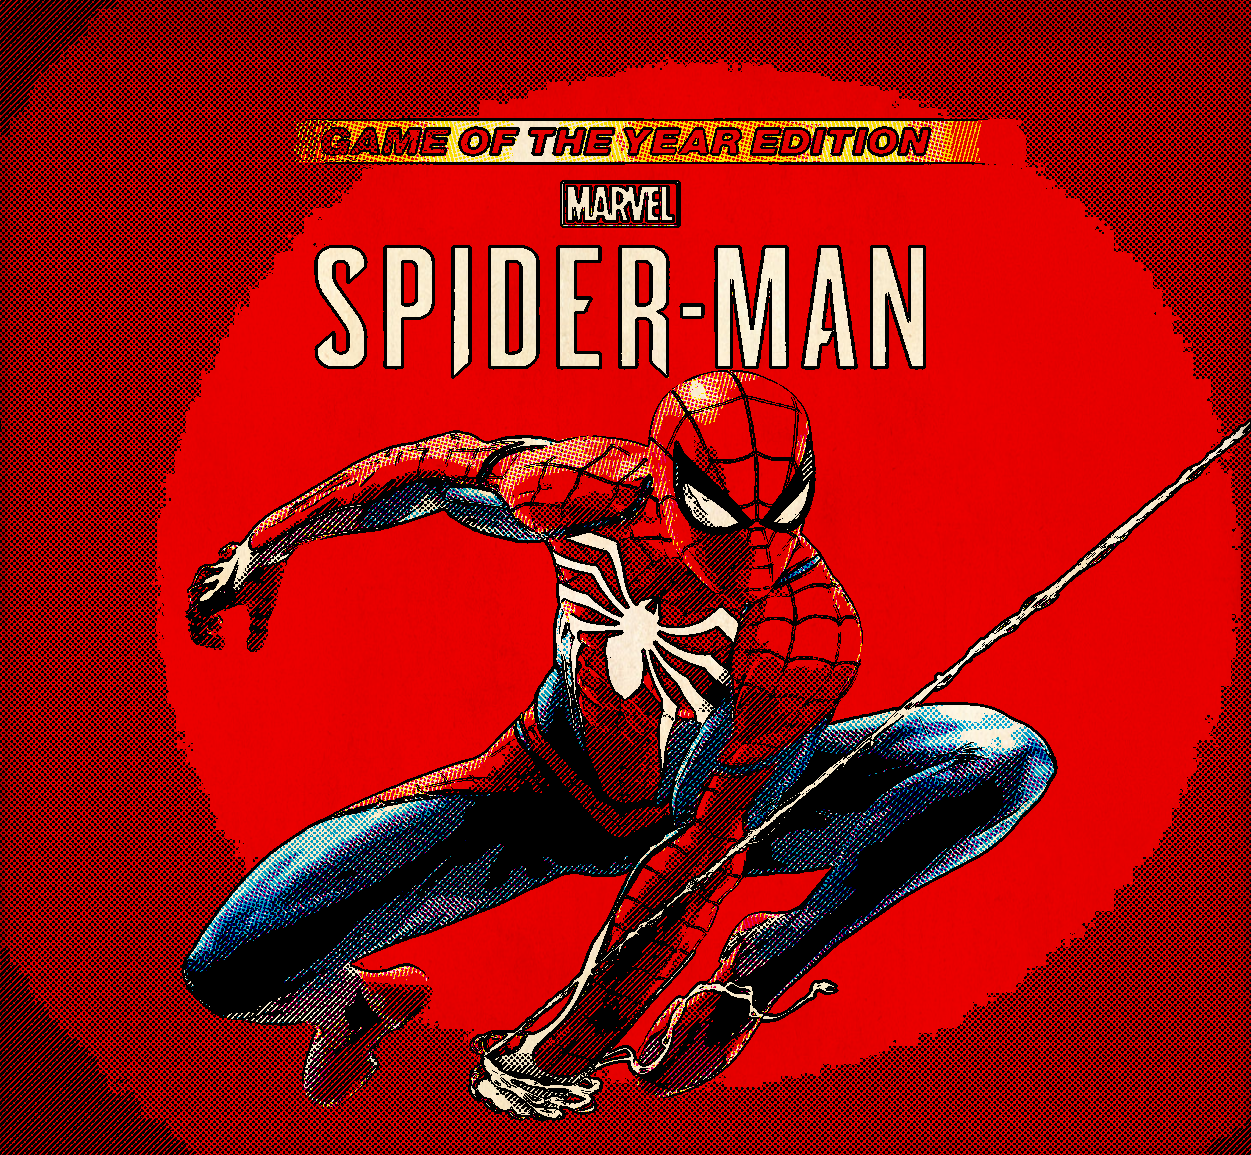
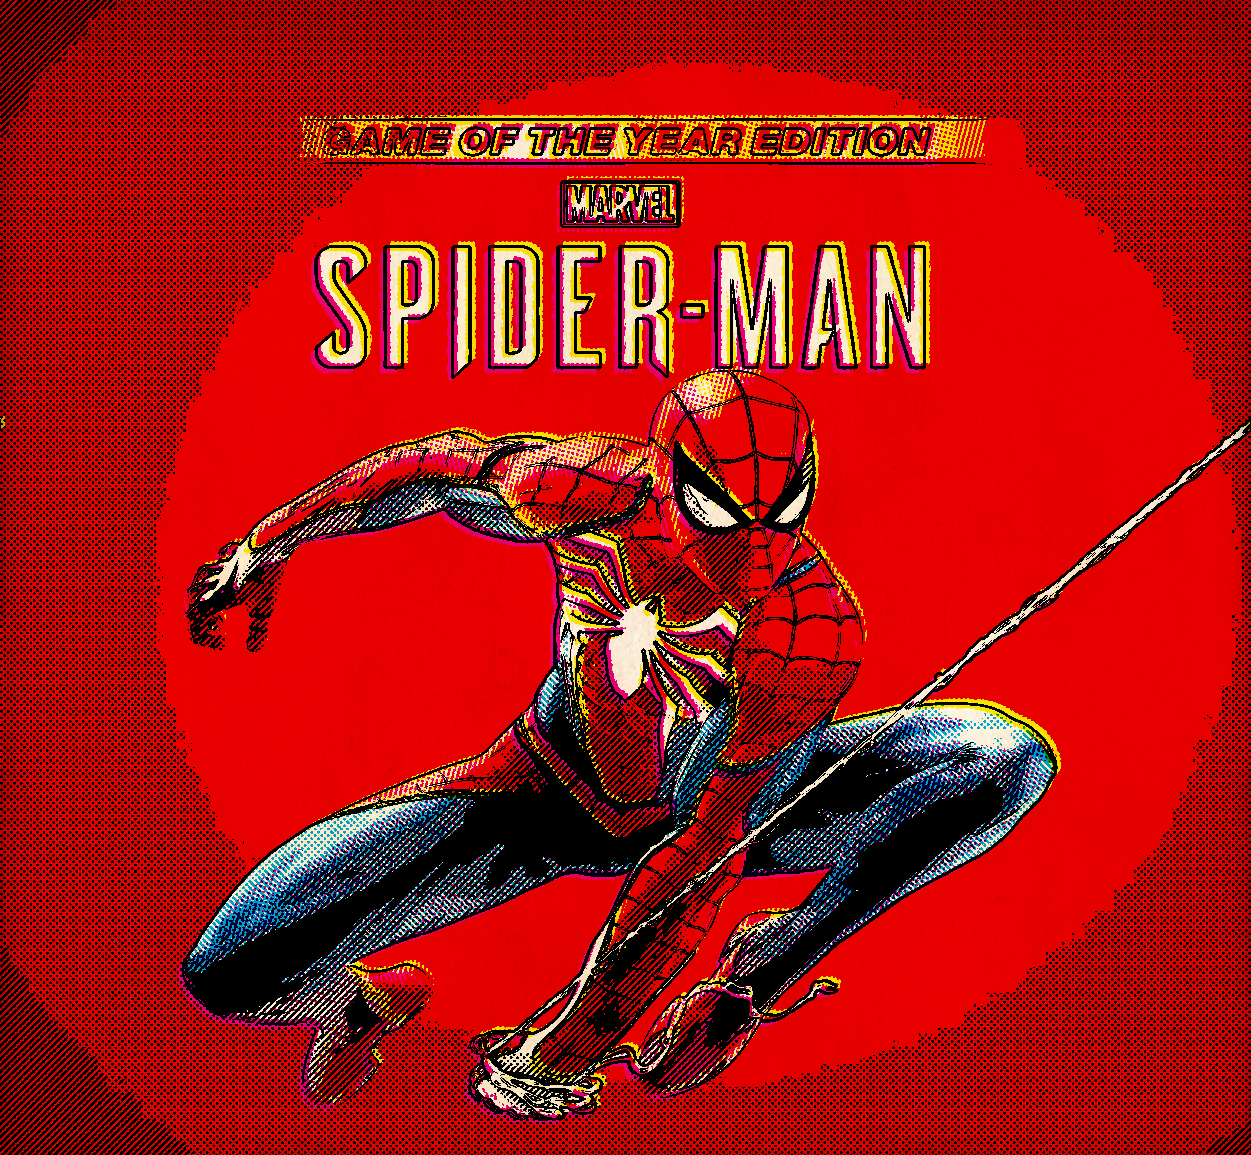
Update dot size

diff --git a/README.md b/README.md
@@ -104,7 +104,7 @@ And [compositing](shaders/composite.glsl) them together with the [paper](shaders
 | ![Origianl](images/spider-man/spider-man.png) | ![Ben Day Dots](images/spider-man/spider-man-dots.png) | ![With Outline](images/spider-man/spider-man-paper-outline.png)  |
 
 ## TODOs
-- [ ] Polish thoughts
+- [x] Polish thoughts
   - [x] better flat shading
   - [x] adjust dot size and space
   - [x] grey shade
